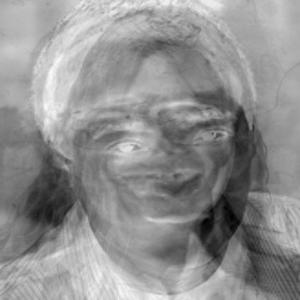
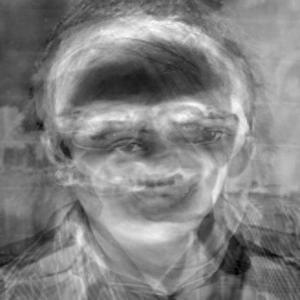
final edits

diff --git a/Module 1/Case Study 2-1 Computing Eigenfaces.py b/Module 1/Case Study 2-1 Computing Eigenfaces.py
@@ -28,7 +28,7 @@ def convertImageToU8bit(input_img):
 def loadFaces(path):
     # Number of faces
     os.chdir(path)
-    files = [f for f in os.listdir(path) if ('jpg' in f)]
+    files = [f for f in os.listdir(path) if (('jpg' in f) | ('png' in f) ) & ('eigen' not in f)]
     N = len(files)
     
     # Use a dict to store everything in the end
@@ -156,7 +156,7 @@ def computeEigenFaces(S, show_images = False):
     
     return u, EigenFaces
 
-def classifyNewFaces(S, u, input_image = '1.jpg', show_images = True):
+def classifyNewFaces(S, u, input_image = '4.jpg', show_images = True):
     # Find the weight of each face for each image in the training set.
     # omega will store this information for the training set.
     omega = []
@@ -206,18 +206,8 @@ def classifyNewFaces(S, u, input_image = '1.jpg', show_images = True):
         WeightOfInputImage = np.dot(t,Difference.T)
         InImWeight.append(WeightOfInputImage)
     
-    # Find distance
-    e=[]
-    for i in range(len(omega)):
-        q = omega[i]
-        DiffWeight = InImWeight-q
-        mag = np.linalg.norm(DiffWeight)
-        e.append(mag)
-
-    kk = list(range(len(e)))
-    
-#    ll = 1:M;
-#    stem(ll,InImWeight)
+    plt.stem(list(range(len(S))),InImWeight)
+    plt.title('weights of different images')
     
     return None
         
@@ -238,6 +228,6 @@ if __name__ == '__main__':
     # Compute eigen faces
     u, eigen_faces = computeEigenFaces(S, show_images = False)
     # Now compute the reconstructed face
-    classifyNewFaces(S, u, input_image = '1.jpg', show_images = True)
+    classifyNewFaces(S, u, input_image = '4.jpg', show_images = True)
     
     
